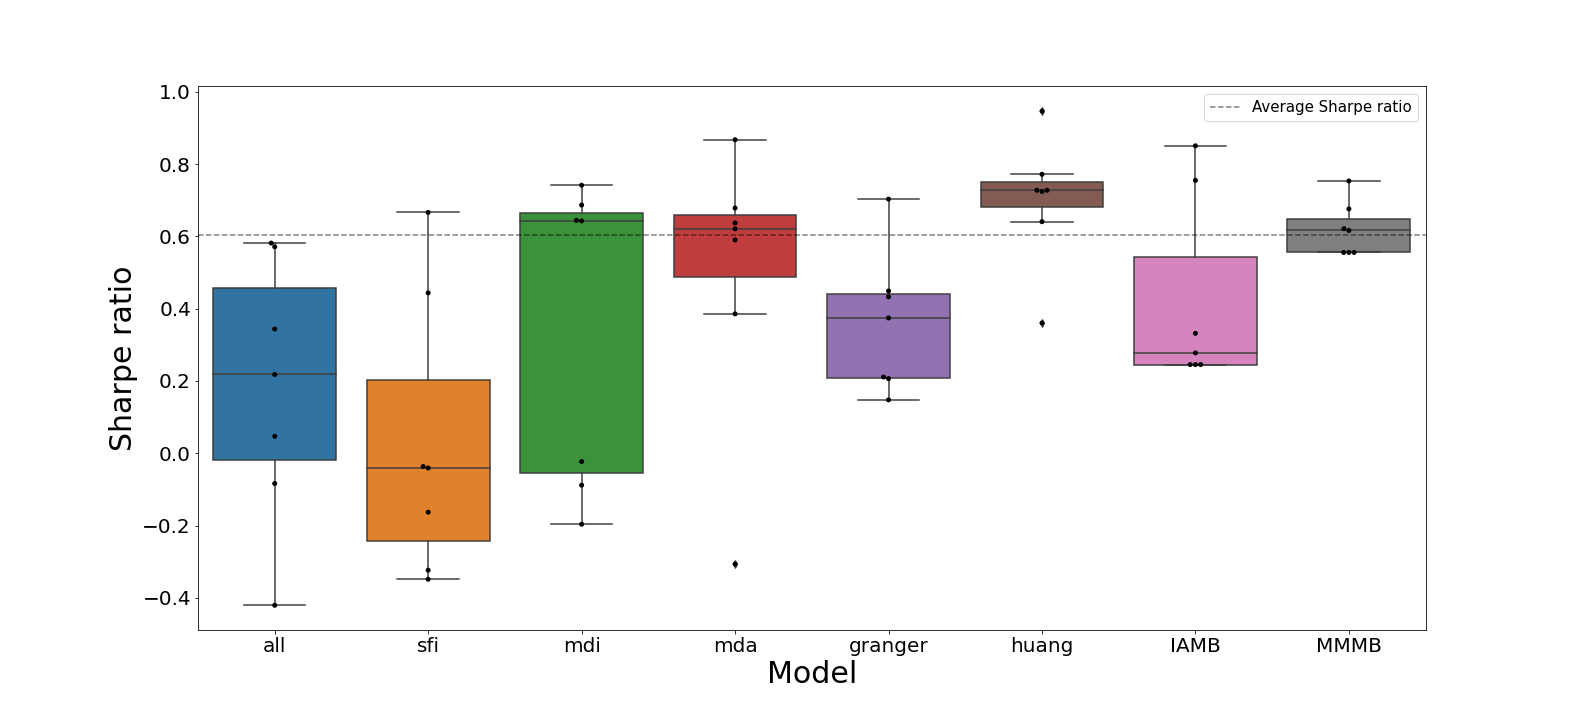
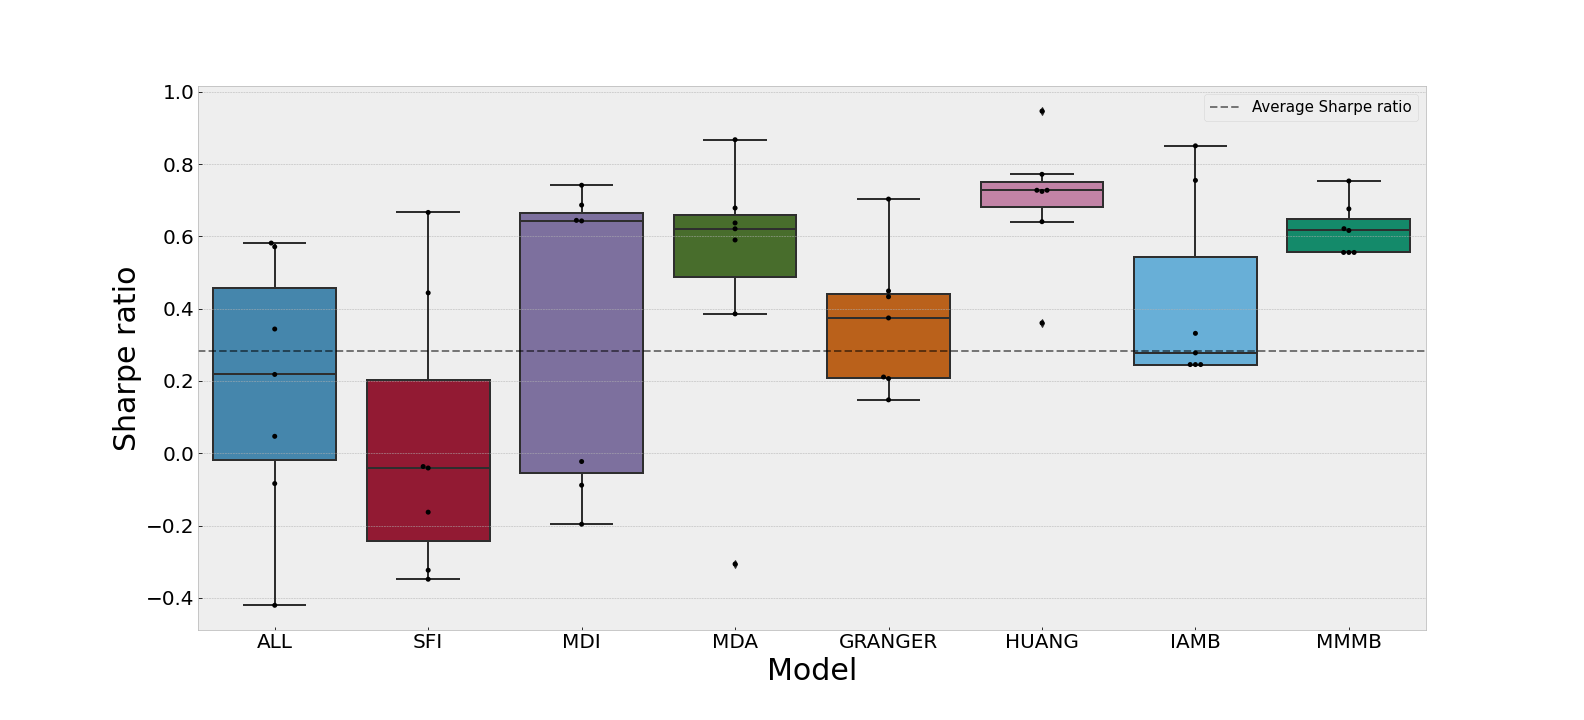
add results png

diff --git a/src/prediction/functions.py b/src/prediction/functions.py
@@ -50,7 +50,18 @@ def aggregate_prediction_results(prediction_models,
     predictions = []
     metrics = []
     for fs in fs_models:
+        
+        fs_name = fs.upper()
+        
         for model in prediction_models:
+            
+            if model == 'random_forest':
+                model_name = 'RF'
+            elif model == 'lgb':
+                model_name = 'GB'
+            else:
+                model_name = model.upper()
+            
             for ticker in ticker_names:
                 df = pd.read_csv('results/forecast/' + fs + '/indices/' + model + '/' + ticker + '.csv')
                 df.set_index('date', inplace=True)
@@ -60,21 +71,21 @@ def aggregate_prediction_results(prediction_models,
                 metric_eval_df = df.copy()
                 metric = roc_auc_score(metric_eval_df[benchmark_name].values, metric_eval_df['prediction'].values)
                 metric_df = pd.DataFrame([{'ticker': ticker,
-                                           'model': model,
-                                           'fs': fs,
+                                           'model': model_name,
+                                           'fs': fs_name,
                                             tag + metric_name: metric}])
                 metrics.append(metric_df)
 
                 melt_df = df.melt('date')
-                melt_df['model'] = model
-                melt_df['fs'] = fs
+                melt_df['model'] = model_name
+                melt_df['fs'] = fs_name
                 melt_df['ticker'] = ticker
                 predictions.append(melt_df)
 
     predictions_df = pd.concat(predictions, axis=0)
     benchmark_df = predictions_df.loc[(predictions_df['variable']==benchmark_name)&
-                                    (predictions_df['fs']==fs)&
-                                    (predictions_df['model']==model)]
+                                    (predictions_df['fs']==fs_name)&
+                                    (predictions_df['model']==model_name)]
     benchmark_df['model'] = benchmark_df['ticker']
     benchmark_df['fs'] = 'raw'
     predictions_df = predictions_df.loc[(predictions_df['variable']!=benchmark_name)]
